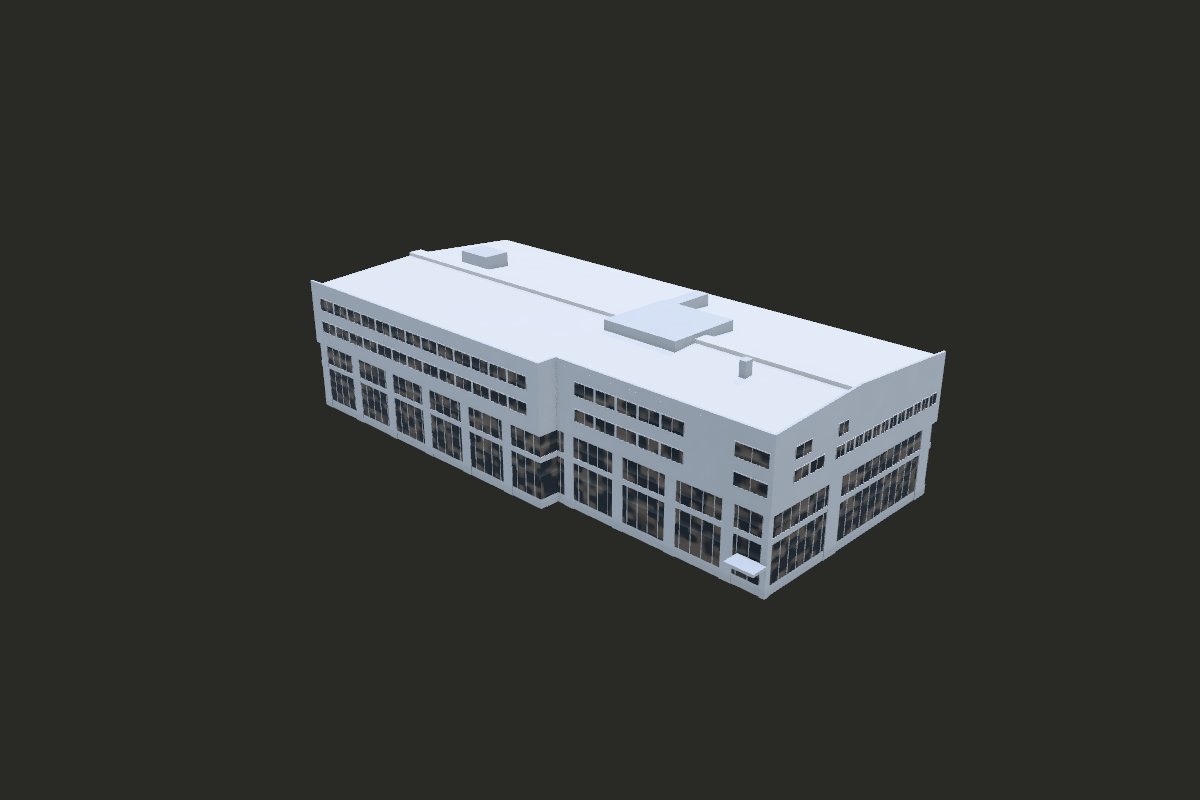
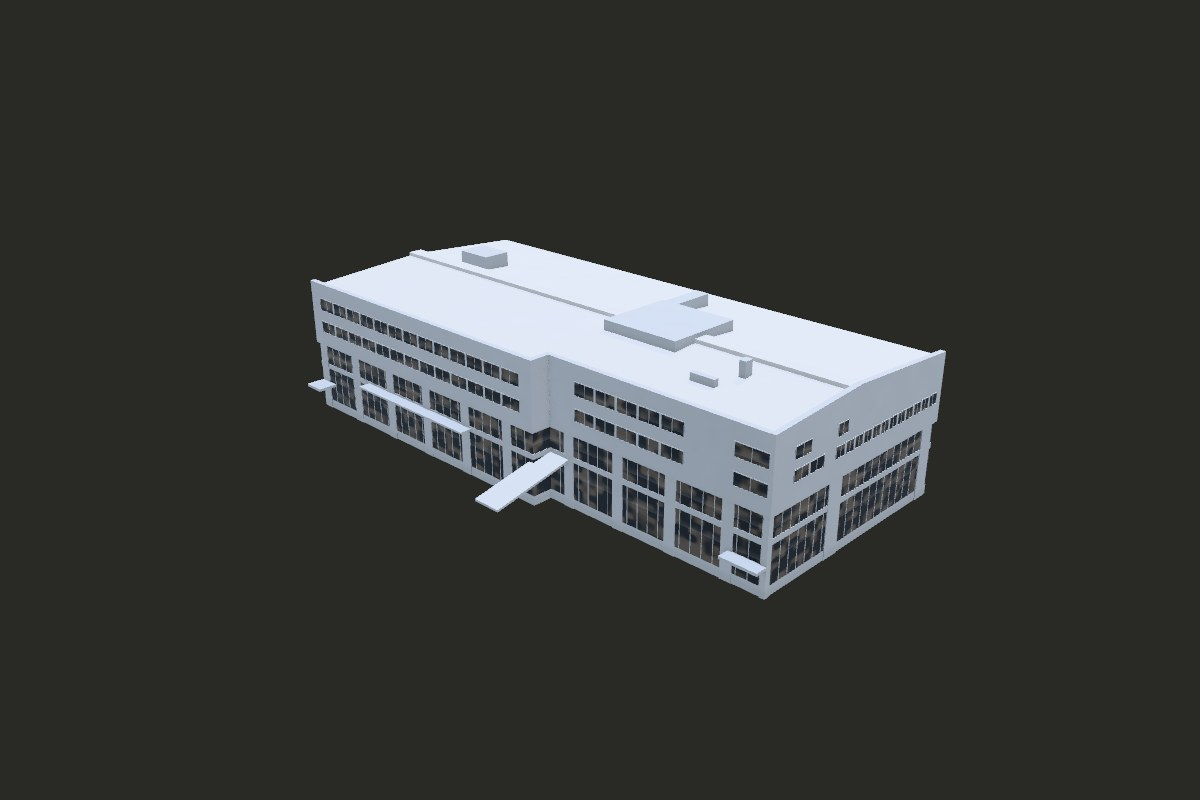
Building 903, review round 1: the step where the LiDAR puts it, what the LiDAR shows that was left out, the parapet
- The south face steps forward at p -7.4, where the LiDAR's wall and parapet
  returns and the campus map's ring put it (p -8.6 drew 1.2 m of the clad
  box over open air); the photograph's camera fitted again with the step's
  corner there (rms 0.85 px, a lens of 60.3 degrees).
- Drawn from the LiDAR: the roof under the step, out to the edge of block
  903's ring, falling from 57.6 m to 55.5 m, a roof alone (the ground's
  returns lie under it); the canopies along the forward face at 58.15 m and
  at its west end at 55.65 m; the corner canopy to its returns; a low block
  by the fan on the roof.
- The parapet 0.7 m thick, as its returns are (0.3 m before).
- The glazed storeys behind the forward face are estimated, drawn as on
  the south face: the LiDAR has no returns on them. The card says so, and
  names the canopies' depth and the roof under the step's.
- The CONTRACT's min_above (3.46 m); the plinth in the lists of what is
  estimated; 904's strip 0.6 to 0.9 m over the roof's north edge.
- 3,882 triangles, 3 draw calls; silhouette 0.965 in the model's box, luma
  163 against 158; top view 97% of the cells within 0.5 m. The four
  pictures again.

Claude-Session: https://claude.ai/code/session_01WyPcwFTXkmVC7XB6LWPSiH

diff --git a/landmarks/building-903/parts/common.js b/landmarks/building-903/parts/common.js
@@ -35,10 +35,11 @@ export const DIR = { p: [-Math.cos(T), 0, Math.sin(T)], q: [Math.sin(T), 0, Math
 export const FOOT = Y(51.8);
 
 /** The block's plan at its roof's outer edges, from the LiDAR's outermost roof returns on each face: the east end at
- * p -38.27, the south face at q 15.84 from there to p -8.6, where it steps 2.68 m forward to q 18.52, the north face
- * at q -16.42 along the whole length. Its west-north-west end is the campus map's ring's (p 36.5): the roof runs on
+ * p -38.27, the south face at q 15.84 from there to p -7.4, where it steps 2.68 m forward to q 18.52 (the step's side
+ * wall: its returns from 60 to 69 m reach p -7.43 and its parapet's -7.30; the campus map's ring -7.31), the north
+ * face at q -16.42 along the whole length. Its west-north-west end is the campus map's ring's (p 36.5): the roof runs on
  * there over the next building at the same height, with no seam in the returns. */
-export const EAST = -38.27, STEP = -8.6, WEST = 36.5;
+export const EAST = -38.27, STEP = -7.4, WEST = 36.5;
 export const SOUTH = 15.84, FORWARD = 18.52, NORTH = -16.42;
 
 /** The roof's two slopes, 0.066 a metre (3.8 degrees) down from its ridge along q 1.0 (70.3 m) to the north eave
@@ -50,8 +51,9 @@ export const CAP = { q0: 0.0, q1: 2.0, top: Y(70.75) };
 
 /** The two upper storeys, the clad box, stand from its underside at 61.25 m (the LiDAR's returns under the faces
  * stop there, and the photograph's camera puts the box's lower edge at 61.2 to 61.5 m on both faces); the two storeys
- * under it are set back 0.45 m on the south and forward faces and the east end (their returns, 54 to 61 m, at q 15.25
- * to 15.5 and p -38.0 to -37.75), on a plinth to 53.0 m (the foot of the glazing through the camera), with a band at
+ * under it are set back 0.45 m on the south face and the east end (their returns, 54 to 61 m, at q 15.25 to 15.5 and
+ * p -38.0 to -37.75) and, estimated, on the forward face as on the south face (the LiDAR has no returns on its
+ * glazing: the canopy along it hides them), on a plinth to 53.0 m (the foot of the glazing through the camera), with a band at
  * the floor between them, 57.7 to 58.4 m (returns at 58.0 m on both faces; the band through the camera). */
 export const SOFFIT = Y(61.25), SET = 0.45, PLINTH = Y(53.0), BAND = { y0: Y(57.7), y1: Y(58.4) };
 
@@ -71,24 +73,42 @@ export const WINDOWS = {
 /** The glazed storeys' piers, estimated in the photograph through the camera: one 0.7 m square at the corner; on
  * the south face one 1.5 m wide at p -33.62 to -32.13, and the rest along the south and forward faces every 7.6 m
  * from it, as it stands from the corner; on the east end one at q 5.04 to 2.7 and one by the north corner (q -13.9
- * to -16.0). The canopy over the corner's entrance: p -37.9 to -34.2, out to q 17.6, its top at 55.6 m (12 returns,
- * 55.5 to 56.0 m, in front of the face there), 0.35 m deep. */
+ * to -16.0). */
 export const PIERS = { corner: 0.7, south: [-33.62, -32.13], step: 7.6, east: [[2.7, 5.04], [-16.0, -13.9]] };
-export const CANOPY = { p0: -37.9, p1: -34.2, q: 17.6, top: Y(55.6), deep: 0.35 };
+
+/** The canopies, from the LiDAR's returns before the faces with the ground's under them, their depth estimated: over
+ * the corner's entrance (p -37.67 to -33.08, out to q 17.04, p50 55.47 m of 30 returns), along the forward face
+ * (p 4.06 to 25.12, out to q 19.70, p50 58.15 m of 231) and at its west end (p 33.40 to 36.42, out to q 20.72, p50
+ * 55.63 m of 20). The face each stands on is "S" (the south face) or "F" (the forward face). */
+export const CANOPIES = [
+  { face: "S", p0: -37.9, p1: -33.1, q: 17.05, top: Y(55.5), deep: 0.35 },
+  { face: "F", p0: 4.05, p1: 25.1, q: 19.7, top: Y(58.15), deep: 0.25 },
+  { face: "F", p0: 33.4, p1: 36.4, q: 20.7, top: Y(55.65), deep: 0.35 },
+];
+
+/** A roof under the step, before the south face (p -10.0 to -6.25, the extent of its returns, out to q 26.2, the
+ * edge of block 903's ring in the campus map), one plane falling 0.215 a metre from 57.61 m at q 16.5 to 55.5 m at
+ * its outer edge (the returns' p50 in 1 m strips of q: 57.61, 57.41, 57.18, 56.97, 56.75, 56.53, 56.33, 56.10, 55.89,
+ * 55.67, 55.47). The ground's returns lie under it all along, so it is drawn as a roof alone, 0.3 m deep: what holds
+ * it up is not known. */
+export const LEAN = { p: [-10.0, -6.25], q: 26.2, at: 16.5, y: Y(57.61), fall: 0.215, deep: 0.3 };
 
 /** The parapet along the south face, its top at 70.05 m (p90 of the returns within 0.6 m of the face, 70.01 to
- * 70.07), 0.3 m thick; at the east end a gable within its parapet, its top 70.08 m at the south corner, 70.97 m over
+ * 70.07), 0.7 m thick (the returns over 69.85 m fill q 15.0 to 15.9 along the south face, and p -38.4 to -37.7 along
+ * the east end); at the east end a gable within its parapet, its top 70.08 m at the south corner, 70.97 m over
  * the ridge and 69.85 m at the north corner (p90 of the returns on it, in 1 m strips of q). */
-export const PARAPET = { top: Y(70.05), thick: 0.3 };
+export const PARAPET = { top: Y(70.05), thick: 0.7 };
 export const GABLE = { south: Y(70.08), ridge: Y(70.97), north: Y(69.85) };
 
 /** On the roof, from the LiDAR's returns standing more than 0.35 m over it (in 1 m cells): plant on a platform
  * across the ridge (p -17 to -6, q -5 to 5.5; returns p50 71.17, p90 71.42 m) and a duct from it to the north
  * (p -8 to -6, q -11.5 to -5; 71.15 m); a unit toward the west end (p 23 to 28.3, q -5 to -1; 70 returns, p90
- * 71.97 m); and a fan (p -27.4 to -26.5, q 5.1 to 6.3; p90 71.91 m). */
+ * 71.97 m); a fan (p -27.4 to -26.5, q 5.1 to 6.3; p90 71.91 m); and a low block south of it (p -26.3 to -23.0, q 9.4
+ * to 10.15; 20 returns, p50 70.65 m). */
 export const HIGH = [
   { p: [-17.0, -6.0], q: [-5.0, 5.5], top: Y(71.35) },
   { p: [-8.0, -6.0], q: [-11.5, -5.0], top: Y(71.15) },
   { p: [23.0, 28.3], q: [-5.0, -1.0], top: Y(71.97) },
   { p: [-27.4, -26.5], q: [5.1, 6.3], top: Y(71.91) },
+  { p: [-26.3, -23.0], q: [9.4, 10.15], top: Y(70.65) },
 ];

diff --git a/landmarks/building-903/parts/block.js b/landmarks/building-903/parts/block.js
@@ -2,7 +2,7 @@
 // end's gable, and the cap along the ridge; and `along`, the shape every part is made of. Sizes from common.js.
 import * as THREE from "three";
 import {
-  CAP, DIR, EAST, FORWARD, GABLE, HIGH, NORTH, PARAPET, RIDGE, SOFFIT, SOUTH, STEP, WEST, pt, roofAt,
+  CAP, DIR, EAST, FOOT, FORWARD, GABLE, HIGH, LEAN, NORTH, PARAPET, RIDGE, SET, SOFFIT, SOUTH, STEP, WEST, pt, roofAt,
 } from "./common.js";
 
 // The walls the pale grey of the photograph's corrugated cladding; the roofs light grey, as the aerial shows them.
@@ -79,6 +79,12 @@ export function cap(b) {
 }
 
 /** The plant, the duct, the unit and the fan on the roof, each standing from within the roof under it. */
+export function lean(b) {
+  const q0 = SOUTH - SET, roof = (q) => LEAN.y - LEAN.fall * (q - LEAN.at), d = LEAN.deep;
+  along(b, LEAN.p[0], LEAN.p[1], [[q0, roof(q0) - d], [LEAN.q, roof(LEAN.q) - d], [LEAN.q, roof(LEAN.q)], [q0, roof(q0)]],
+    [WALL, WALL, ROOFS, null], WALL);
+}
+
 export function high(b) {
   for (const { p: [p0, p1], q: [q0, q1], top } of HIGH) {
     const base = Math.min(roofAt(q0), roofAt(q1)) - 0.1;

diff --git a/landmarks/building-903/parts/facade.js b/landmarks/building-903/parts/facade.js
@@ -2,7 +2,7 @@
 // mullions, and the canopy over the corner's entrance; and the windows of the clad storeys. Sizes from common.js.
 import { GLASS, WALL, along } from "./block.js";
 import {
-  BAND, CANOPY, EAST, EAST_SILLS, FOOT, FORWARD, NORTH, PIERS, PLINTH, SET, SILLS, SOFFIT, SOUTH, STEP, WEST, WINDOWS,
+  BAND, CANOPIES, EAST, EAST_SILLS, FOOT, FORWARD, NORTH, PIERS, PLINTH, SET, SILLS, SOFFIT, SOUTH, STEP, WEST, WINDOWS,
 } from "./common.js";
 
 // The glazed storeys' faces: the south face, the forward face, the east end and the step's return.
@@ -86,7 +86,10 @@ export function piers(b) {
 
 /** The canopy over the corner's entrance, from the glazing out to its front. */
 export function canopy(b) {
-  box(b, "S", QG, CANOPY.p0, CANOPY.p1, CANOPY.top - CANOPY.deep, CANOPY.top, -0.02, CANOPY.q - QG, WALL);
+  for (const c of CANOPIES) {
+    const at = c.face === "S" ? QG : QF;
+    box(b, "S", at, c.p0, c.p1, c.top - c.deep, c.top, -0.02, c.q - at, WALL);
+  }
 }
 
 /** The clad storeys' windows: on the south face as the photograph shows them, on the forward face its bands, on the

diff --git a/landmarks/building-903/model.js b/landmarks/building-903/model.js
@@ -3,7 +3,7 @@
 // ?only=body) builds just those parts. Every landmark's model.js exports build(materials, only), which returns a
 // Group. The parts are drawn in the view frame.
 import { Builder } from "../kit/gothic.js";
-import { body, cap, high, parapet } from "./parts/block.js";
+import { body, cap, high, lean, parapet } from "./parts/block.js";
 import { canopy, glazed, piers, windows } from "./parts/facade.js";
 
 const PARTS = {
@@ -11,6 +11,7 @@ const PARTS = {
   parapet: (b) => parapet(b),
   cap: (b) => cap(b),
   high: (b) => high(b),
+  lean: (b) => lean(b),
   glazed: (b) => glazed(b),
   piers: (b) => piers(b),
   canopy: (b) => canopy(b),

diff --git a/README.md b/README.md
@@ -932,11 +932,11 @@ The thirty-seventh is Building 903 (903), on the Newmarket campus, until now a m
 four storeys whose two upper storeys are a box clad in pale corrugated metal, with windows singly and in bands, over
 two glazed storeys set back under it on piers; a canopy over the entrance at its south-east corner, its south face
 stepped forward part of the way along, and a low roof of two slopes with plant on it, the east end a low gable. Its
-heights and plans come from the LiDAR; its windows, the glazed storeys' piers and the canopy are estimated with the
-photograph as a reference. One photograph from the road to its south-east, looking at its south face and east end;
+heights and plans come from the LiDAR; its windows, the glazed storeys' plinth and piers and the canopies' depth are
+estimated with the photograph as a reference. One photograph from the road to its south-east, looking at its south face and east end;
 counted inside the rectangle the model fills on the screen, its silhouette has an IoU of 0.96 in it, and the
-brightness over it is within 5 of the photograph's. From above its outline covers the LiDAR's with an IoU of 0.91,
-and on 95% of the cells both cover it is within 0.5 m of the LiDAR's height. What the photograph does not show is
+brightness over it is within 5 of the photograph's. From above its outline covers the LiDAR's with an IoU of 0.92,
+and on 97% of the cells both cover it is within 0.5 m of the LiDAR's height. What the photograph does not show is
 drawn as what it does.
 
 | | |
@@ -1165,7 +1165,7 @@ an estimate of 3.6 m a floor, and its windows and roof rims are drawn by rule.
 | A photograph of 67 Symonds Street from the street to its south-east | The look its model was compared with while it was drawn, and, as a reference, its windows, its curved bay's dark bands and its louvred panels on its south and east faces, estimated in it through a camera fitted to the LiDAR | Used as a reference only: never published, traced or sampled, and kept on the maintainer's computer. |
 | A photograph of Fine Arts Studio Block 431 from the car park at the west end of the lane to its south | The look its model was compared with while it was drawn, and, as a reference, its south face's columns, the heights of its rows of windows and the places of its roller doors, estimated in it through a camera fitted to the LiDAR | Used as a reference only: never published, traced or sampled, and kept on the maintainer's computer. |
 | A photograph of Fine Arts Studio Block 431's east entrance | That its stair tower and the canopy over its entrance are glass; no size is taken from it | Used as a reference only: never published, traced or sampled, and kept on the maintainer's computer. |
-| A photograph of Building 903 from the road to its south-east | The look its model was compared with while it was drawn, and, as a reference, its clad storeys' windows, its glazed storeys' piers and the canopy over its entrance, estimated in it through a camera fitted to the LiDAR | Used as a reference only: never published, traced or sampled, and kept on the maintainer's computer. |
+| A photograph of Building 903 from the road to its south-east | The look its model was compared with while it was drawn, and, as a reference, its clad storeys' windows, its glazed storeys' plinth and piers and the canopy over its entrance, estimated in it through a camera fitted to the LiDAR | Used as a reference only: never published, traced or sampled, and kept on the maintainer's computer. |
 | A photograph of Fine Arts Studio Block 433 from the road at its west-south-west end | The look its model was compared with while it was drawn, and, as a reference, the height of its red ground storey, its glazing's mullions, floor bands and coloured panels, the place of its end wall, its end's grey bay, doors and windows, its balconies' fronts and its outside stair, estimated in it through a camera fitted to the LiDAR | Used as a reference only: never published, traced or sampled, and kept on the maintainer's computer. |
 | A photograph of 2-6 Park Ave from the footpath of Park Avenue | The look its model was compared with while it was drawn, and, as a reference, its balconies' slabs' depth and their rails' bars and posts, the glazing behind them on the east face and its ground storey's brick and windows, estimated in it through a camera fitted to the LiDAR | Used as a reference only: never published, traced or sampled, and kept on the maintainer's computer. |
 | A photograph of Architecture - West from the paved level to its north | The look its model was compared with while it was drawn, and, as a reference, the storeys' height and the parapets and windows on its north-east faces | Used as a reference only: never published, traced or sampled, and kept on the maintainer's computer. |
@@ -1694,15 +1694,15 @@ If you represent the University and would like something changed or removed, ple
   under it at the east end, over the level lane.
 - **Building 903 is seen from its south-east only.** One photograph, under a bright overcast sky, looks at its south
   face and east end from the road to their south-east; its camera is fitted to both faces' roof edges against the
-  sky, four upright edges and three corners. The clad storeys' windows, the glazed storeys' piers and the canopy over
-  the corner's entrance are estimated in it; the south face's forward part, which it sees only at its far end, has
+  sky, four upright edges and three corners. The clad storeys' windows, the glazed storeys' plinth and piers and the
+  canopy over the corner's entrance are estimated in it; the south face's forward part, which it sees only at its far end, has
   the south face's bands of windows, and the north face, which no photograph shows, is drawn as the south face. Its
   entrance is not known from a record: its door is set before the glazed entrance under the canopy. The map's ground
   there is 5.01 m over the LiDAR's, so the model stands that much higher than the real building, on the drawn ground
   at its door; toward its west end the map's ground rises 1.35 m over the door's, and its glazed storeys stand partly
   in it. Its neighbours' measured massings stand on the map's ground at their own doors, 902's 7.33 m and 904's
   5.71 m over the LiDAR's, so on the map 902's roof, one roof with 903's, stands about 2.3 m over the model's at its
-  west end, and the strip of 904's massing that is the edge of 903's roof about 0.7 m over the model's along its
+  west end, and the strip of 904's massing that is the edge of 903's roof 0.6 to 0.9 m over the model's along its
   north edge.
 - **The Fisher Building is seen from Waterloo Quadrant only.** Two Street View panoramas see its west
   and south faces; its faces turned north, east and south-east, which no photograph shows, are tan

diff --git a/landmarks/building-903/README.md b/landmarks/building-903/README.md
@@ -33,7 +33,7 @@ local metres (it is in the map's frame); `place` converts.
 
 - No other landmark's outline comes within 2 m of its (the nearest, Building 907's, is about 178 m off), so it stands
   alone on the map's ground at its door (`../README.md`, "Placement").
-- The model stands over 96.3% of block 903, 7.3% of block 904 and 2.0% of block 902. `building.also` is empty.
+- The model stands over 97.3% of block 903, 7.3% of block 904 and 2.0% of block 902. `building.also` is empty.
 - Its roof runs on to the west-north-west, at the same height and with no seam in the LiDAR's returns, over Building
   902: the model ends where the campus map's ring does, and 902's measured massing draws the rest. Building 904, a
   lower block with a gable roof, stands against its north face; 904's measured massing has a flat strip at 16.8 m
@@ -56,8 +56,9 @@ decide. No Street View photograph is used.
   upright edges (the cladding's corner, a standpipe, the east end's north edge and a pier) and to three corners (the
   ridge on the east end, the east end's north corner and the top of the south face's step forward), held near 1.6 m
   over the LiDAR's ground. It stands 1.62 m over the LiDAR's ground about 27 m south-east of the corner, its optical
-  axis at bearing 337.4 degrees, looking up 15.0 degrees, through a lens of 59.4 degrees across: an rms of 0.85 px over
-  46 residuals.
+  axis at bearing 336.7 degrees, looking up 14.9 degrees, through a lens of 60.3 degrees across: an rms of 0.85 px over
+  46 residuals (the step's corner taken at p -7.4, where the LiDAR puts the step; at p -8.6, as first measured, the
+  same rms with a lens of 59.4 degrees).
 - Fitted to the edges and the upright edges alone, the camera wanted a lens of 62.8 degrees and put those three
   corners 12 to 39 px off: the lines alone do not fix the scale along them.
 
@@ -69,18 +70,22 @@ look and the comparison.
 From the LiDAR:
 
 - **The block**: its roof's outer edges (the outermost roof returns on each face) at p -38.27 (the east end) to the
-  campus map's ring's west-north-west end at p 36.5, the south face at q 15.84 from the east end to p -8.6, where it
+  campus map's ring's west-north-west end at p 36.5, the south face at q 15.84 from the east end to p -7.4, where it
   steps 2.68 m forward to q 18.52, and the north face at q -16.42 along the whole length.
 - **The roof**: two slopes, 0.066 a metre (3.8 degrees), down from a ridge along q 1.0 at 70.3 m to the north eave at
   69.15 m and to the south parapet; a cap 2 m wide along the ridge to 70.75 m. The parapet along the south face to
-  70.05 m (p90 of the returns within 0.6 m of it), 0.3 m thick; at the east end a gable within its parapet, 70.08 m at
+  70.05 m (p90 of the returns within 0.6 m of it), 0.7 m thick; at the east end a gable within its parapet, 70.08 m at
   the south corner, 70.97 m over the ridge and 69.85 m at the north corner (p90 in 1 m strips).
 - **On the roof**, from the returns standing more than 0.35 m over it: plant on a platform across the ridge (p -17 to
   -6, q -5 to 5.5) to 71.35 m, a duct from it to the north to 71.15 m, a unit toward the west end (p 23 to 28.3, q -5
-  to -1) to 71.97 m and a fan to 71.91 m.
+  to -1) to 71.97 m, a fan to 71.91 m and a low block south of it to 70.65 m.
+- **A roof under the step**, before the south face (p -10.0 to -6.25, out to q 26.2, the edge of block 903's ring),
+  one plane falling from 57.6 m to 55.5 m, with the ground's returns under it all along; and **the canopies**: over the corner's entrance (p -37.9 to -33.1, out to q 17.05) at
+  55.5 m, along the forward face (p 4.05 to 25.1, out to q 19.7) at 58.15 m and at its west end (p 33.4 to 36.4, out to
+  q 20.7) at 55.65 m (the returns before the faces, with the ground's under them).
 - **The clad box's underside** at 61.25 m (the returns under the faces stop there; through the camera the box's lower
-  edge lies at 61.2 to 61.5 m), and **the glazed storeys** under it 0.45 m behind the south and forward faces and the
-  east end (their returns between 54 and 61 m), with a band at the floor between them, 57.7 to 58.4 m (returns at
+  edge lies at 61.2 to 61.5 m), and **the glazed storeys** under it 0.45 m behind the south face and the east end
+  (their returns between 54 and 61 m), with a band at the floor between them, 57.7 to 58.4 m (returns at
   58.0 m on both faces).
 - **The walls' foot**, FOOT, 51.8 m: the ground along the walls (p1 of the returns 0.5 to 3 m out) lies from 51.89 m
   on the road before the forward face to 52.7 m by the east end's north corner.
@@ -90,8 +95,9 @@ the south face a pair of wide ones by the corner and a band of five, sills 63.25
 single windows over a pair and a band of twelve to the north corner, sills 63.85 and 66.3 m) in frames 0.07 m proud,
 the cladding 0.3 m wide between their units; the glazed storeys' piers (one 0.7 m square at the corner, one 1.5 m
 wide on the south face and its like every 7.6 m along the south and forward faces, two on the east end) and a mullion
-every 1.5 m; and the canopy over the corner's entrance, out to q 17.6, its top at 55.6 m (where 12 returns lie in
-front of the face). The forward face, which the photograph sees only at its far end, has the south face's bands;
+every 1.5 m; the canopies' depth; the glazed storeys' place behind the forward face, where the canopy along it hides
+them from the LiDAR, drawn as on the south face; and the depth of the roof under the step, drawn with nothing under it. The forward
+face, which the photograph sees only at its far end, has the south face's bands;
 the north face, which no photograph shows, is drawn as the south face.
 
 ## The light
@@ -123,7 +129,7 @@ notes it.
 - **Its neighbours' massings.** The measured massings stand on the map's ground at their own doors too: 902's 7.33 m
   over the LiDAR's ground and 904's 5.71 m, where the model stands 5.01 m over it (903's measured massing, at the
   lowest point of its outline, stood 7.08 m over). So on the map 902's roof stands about 2.3 m over the model's at its
-  west end, where they are one roof, and 904's strip about 0.7 m over the model's roof along its north edge.
+  west end, where they are one roof, and 904's strip 0.6 to 0.9 m over the model's roof along its north edge.
 - **While a building is open** its neighbours sink to footprints, and the model gives way to block 903, which sinks on
   its footing (`updateLandmarks` in `src/scene/CampusScene.ts`).
 - **The light form** (the map, and the walker views of the basic tier) draws `glass` as glass and `roofPale` as a roof,

diff --git a/landmarks/building-903/docs/CONTRACT.md b/landmarks/building-903/docs/CONTRACT.md
@@ -6,20 +6,20 @@ The rules every part of this landmark keeps. The kit, the pipeline and the viewe
 ## Frame and sizes
 - View frame, metres: **x** east-south-east (the frame's `-axis`), **y** up from the config's ground (52.64 m
   NZVD2016, the LiDAR's ground at the door), **z** south-south-west (`toStreet`, the road); the
-  frame's centre at x = z = 0. `config/building-903.json`, `frame`: the building's returns more than 3.0 m over that
+  frame's centre at x = z = 0. `config/building-903.json`, `frame`: the building's returns more than 3.46 m over that
   ground and within 1.5 m of the campus map's ring, the axis along its long faces (bearing -71.7 deg).
 - The building's own frame: **p** along its long faces toward the west-north-west and **q** toward the
   south-south-west. Its faces run 2.33 degrees off the frame's axis, so `parts/common.js` turns p and q by that before
   `at`, `plan` and `pt` give the view frame; `Y` turns an elevation measured in the LiDAR into a height over the
   config's ground.
 - What the LiDAR shows (`parts/common.js` holds the numbers): a block about 75 by 32 m to its roof's outer edges
-  (p -38.27 to 36.5, q -16.42 to 15.84), its south face stepped 2.68 m forward west of p -8.6; a roof of two slopes
+  (p -38.27 to 36.5, q -16.42 to 15.84), its south face stepped 2.68 m forward west of p -7.4; a roof of two slopes
   (3.8 degrees) from a ridge along q 1.0 at 70.3 m, with a cap 2 m wide to 70.75 m, down to the north eave at
   69.15 m; a parapet along the south face to 70.05 m, and at the east end a low gable within a parapet (70.08 m,
   70.97 m over the ridge, 69.85 m). The roof runs on to the west-north-west past p 36.5 at the same height, over the
   next building: the campus map's ring ends the model there.
 - The clad box stands from its underside at 61.25 m; the two glazed storeys under it are set back 0.45 m on the
-  south and forward faces and the east end (the LiDAR's returns on them), on a plinth to 53.0 m, with a band at the
+  south face and the east end (the LiDAR's returns on them) and, estimated, on the forward face, on a plinth to 53.0 m, with a band at the
   floor between them (57.7 to 58.4 m). The windows of the clad storeys, the glazed storeys' piers and the canopy over
   the corner's entrance are estimated in the photograph through its fitted camera (`parts/common.js` says where).
 - On the roof: plant on a platform across the ridge to 71.35 m, a duct from it to the north, a unit toward the west
@@ -36,7 +36,7 @@ The rules every part of this landmark keeps. The kit, the pipeline and the viewe
 ## Budget
 - Whole building ≤ 20k triangles and ≤ 6 draw calls (tier 3, a measured massing drawn in detail), merged by material.
   Round 0: 78 triangles, 2 draw calls. Round 1: 3,810 triangles, 3 draw calls (`claddingPale`, `glass`,
-  `roofPale`). Step 7: 3,850 triangles, 3 draw calls.
+  `roofPale`). Step 7: 3,850 triangles, 3 draw calls. After the review of #169: 3,882 triangles, 3 draw calls.
 
 ## Rounds
 - Round 0 (2026-11-12, the lead alone): the block with its step forward, its roof of two slopes and the cap along
@@ -59,3 +59,11 @@ The rules every part of this landmark keeps. The kit, the pipeline and the viewe
 - Step 8 (2026-11-12): on the site (`site: true`), in place of block 903; its measured massing's data file gone (a
   run of `massing.py` over the Newmarket campus writes every other file as before). The map's ground at the door is
   5.01 m over the LiDAR's; under the walls' corners from 0.05 m under to 1.35 m over the door's, all over FOOT.
+- The review of #169 (2026-11-12): the step forward at p -7.4, where the LiDAR's wall and parapet returns and the
+  campus map's ring put it (p -8.6 before), and the photograph's camera fitted again with its corner there (rms
+  0.85 px, a lens of 60.3 degrees); the parapet 0.7 m thick, as its returns are; a roof under the step, out to the
+  ring's edge, the canopies along the forward face and at its west end, the corner canopy to its returns and a low
+  block by the fan on the roof, all from the LiDAR; the glazed storeys behind the forward face estimated, as on the
+  south face. Silhouette IoU 0.870, 0.965 in the model's box; luma 163 against 158. Top view: footprint IoU 0.918,
+  97% of 10,192 cells within 0.5 m, the highest point 19.33 m over the door's ground against 19.28, block 903
+  97.3% under the model. 3,882 triangles, 3 draw calls.

diff --git a/CHANGELOG.md b/CHANGELOG.md
@@ -23,7 +23,7 @@ A change to what the site does or shows adds its line here, and the README's
   corrugated metal, with windows singly and in bands, over two glazed storeys set back under it on piers, a canopy
   over the entrance at its south-east corner, and a low roof of two slopes with plant on it. Its sizes come from the
   LINZ 2024 LiDAR; it was compared with a photograph from the road to its south-east, and its card says what is
-  estimated: the faces the photograph sees, with it as a reference, the windows, the piers and the canopy, and the
+  estimated: the faces the photograph sees, with it as a reference, the windows, the plinth, the piers and the canopies, and the
   faces no photograph shows, drawn as the ones it does. Its measured massing's data file has gone. On the map it has
   the map's colours; from a walker's height on a computer with a graphics card, its own cladding, glass and roofs
   (#PRNUM).

diff --git a/landmarks/MASSING.md b/landmarks/MASSING.md
@@ -510,7 +510,7 @@ neighbour's outline is for the maintainer: keep these strips; or keep 904's bloc
 generator leave the neighbours' outlines out of the layers above the lowest, which would change
 305 on the City campus too. 903, Building 903, has since become a landmark (2026-11-12), its data file gone: the
 strip lies on the landmark's roof, which draws that edge itself. On the site each stands on the map's ground at its
-own door, 904's massing 5.71 m over the LiDAR's ground there and the landmark 5.01 m, so the strip shows about 0.7 m
+own door, 904's massing 5.71 m over the LiDAR's ground there and the landmark 5.01 m, so the strip shows 0.6 to 0.9 m
 over the landmark's roof along its north edge.
 
 The other 34 kept their blocks then, each in `exclusions.json` with its reason (28 now: 501, 502, 505 and 507,
